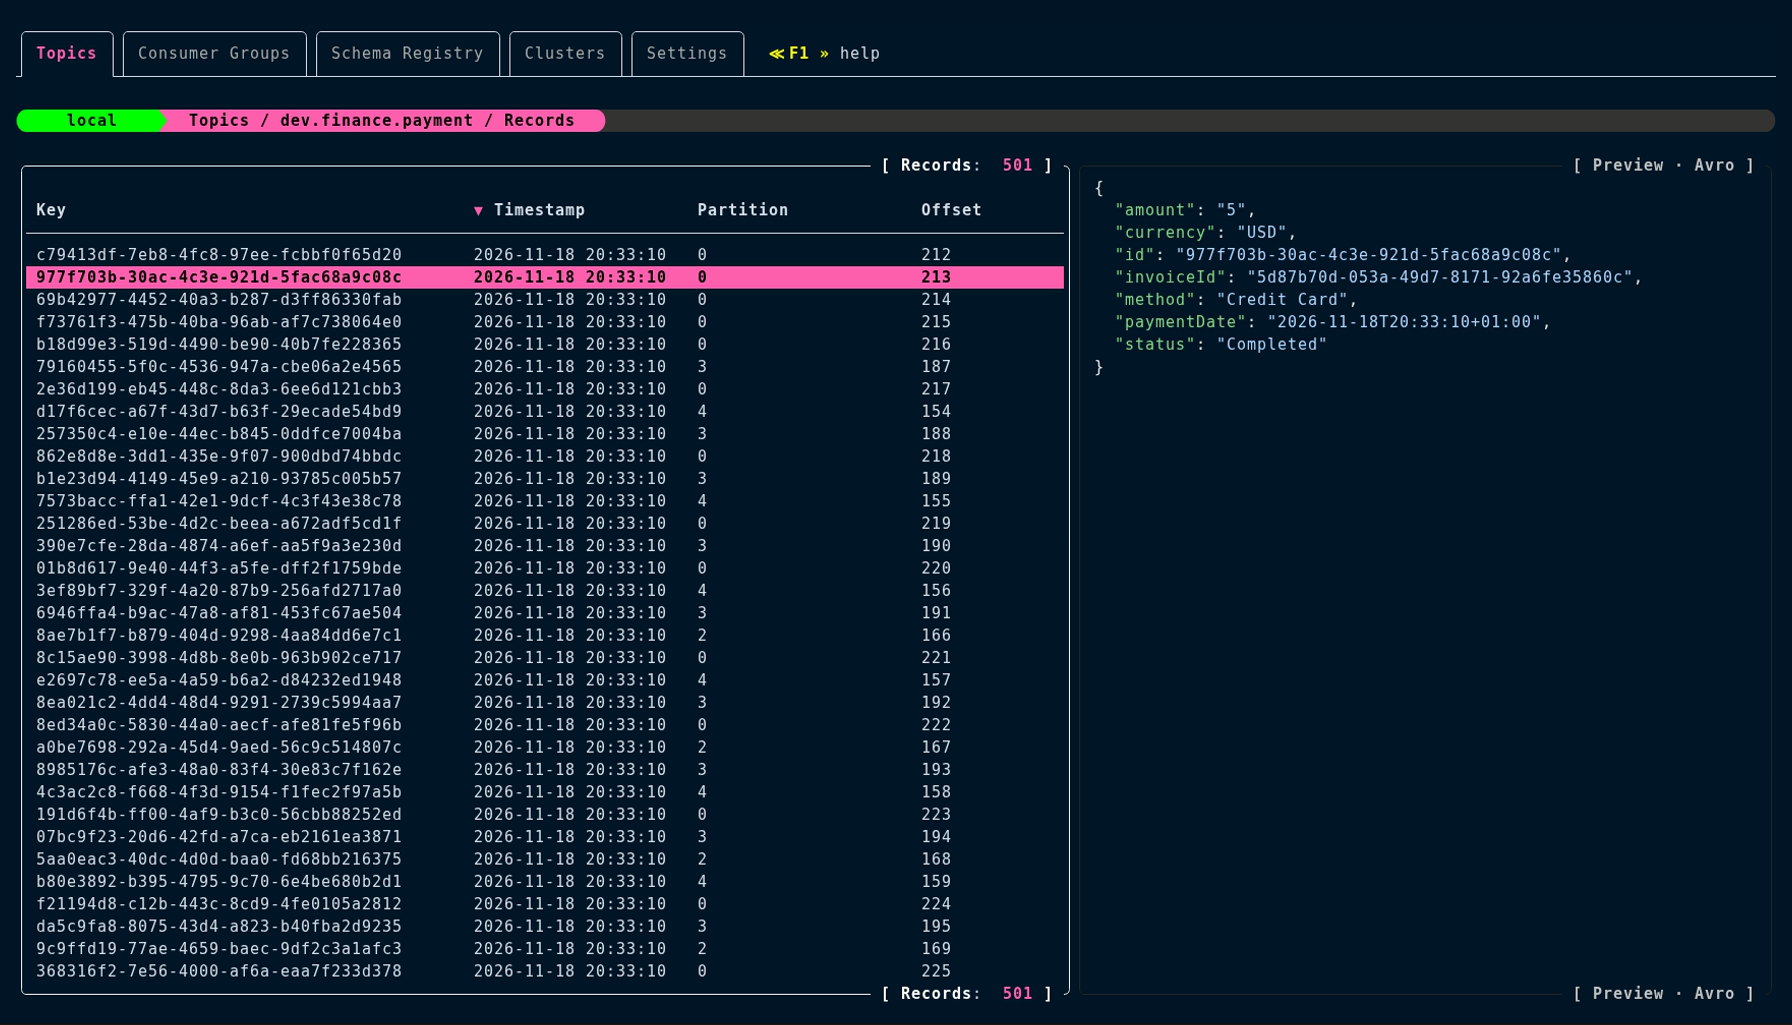
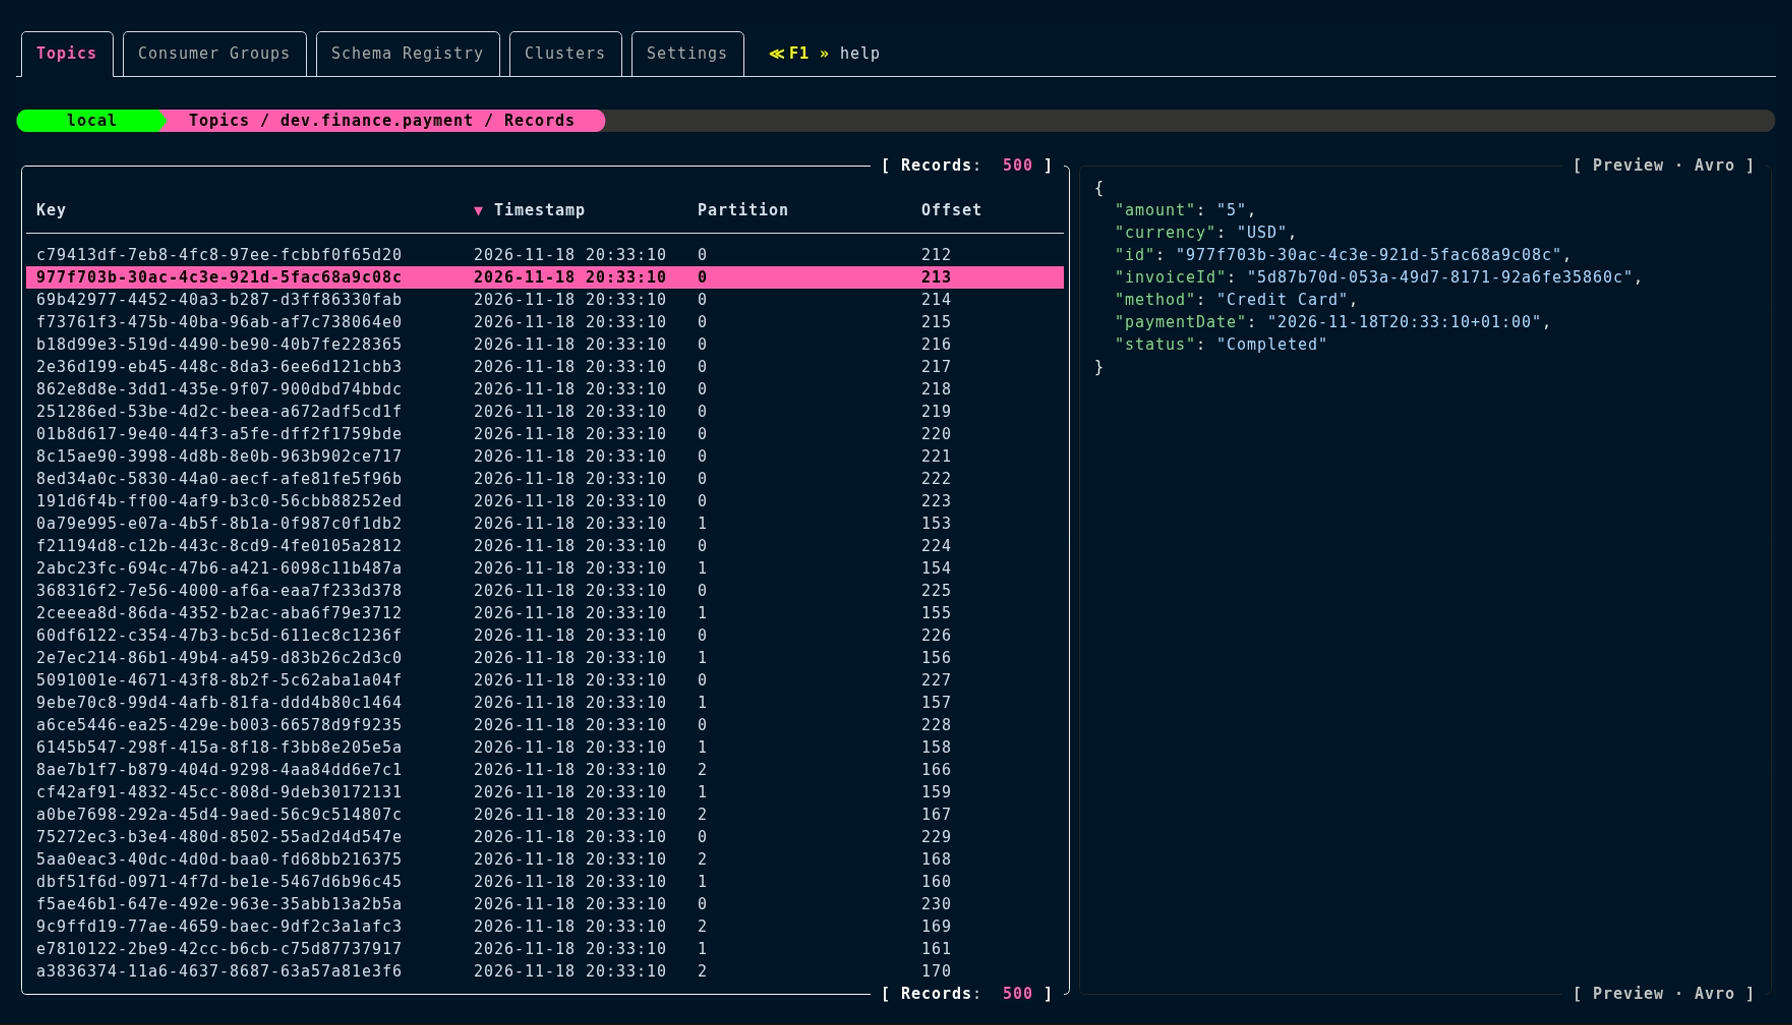
fix: read exactly the requested number of records
Most recent reading started one offset too early per partition, so it
read one record too many and missed the newest record of a partition.
Reading from the beginning had the same off-by-one when exactly one more
record was available. Partitions read concurrently could also each send
one record more after the limit was reached, e.g. 501 of 500 records.

An unset limit reads the default of 500 records instead of one.

diff --git a/kadmin/record_reader_test.go b/kadmin/record_reader_test.go
@@ -236,7 +236,10 @@ func TestReadRecords(t *testing.T) {
 
 		assertRecords:
 			{
-				assert.Equal(t, 53, slices.Max(receivedRecords))
+				// the 50 most recent records, including the newest one
+				assert.Len(t, receivedRecords, 50)
+				assert.Equal(t, 5, slices.Min(receivedRecords))
+				assert.Equal(t, 54, slices.Max(receivedRecords))
 			}
 
 			// clean up
@@ -956,6 +959,57 @@ type determineStartingOffsetTest struct {
 	offsets     offsets
 }
 
+func TestReadRecordsLimitAcrossPartitions(t *testing.T) {
+	topic := topicName()
+	msg := ka.CreateTopic(TopicCreationDetails{Name: topic, NumPartitions: 5, ReplicationFactor: 1}).(TopicCreationStartedMsg)
+	if _, ok := msg.AwaitCompletion().(TopicCreatedMsg); !ok {
+		t.Fatal("Unable to create topic")
+	}
+	defer ka.DeleteTopic(topic)
+
+	// 120 records per partition
+	for i := 0; i < 600; i++ {
+		partition := i % 5
+		psm := ka.PublishRecord(&ProducerRecord{
+			Topic:     topic,
+			Key:       strconv.Itoa(i),
+			Value:     []byte("{}"),
+			Partition: &partition,
+		})
+		select {
+		case err := <-psm.Err:
+			t.Fatal("Unable to publish", err)
+		case <-psm.Published:
+		}
+	}
+
+	for _, sp := range []StartPoint{MostRecent, Beginning} {
+		rsm := ka.ReadRecords(context.Background(), ReadDetails{
+			TopicName:       topic,
+			PartitionToRead: []int{0, 1, 2, 3, 4},
+			StartPoint:      sp,
+			Limit:           500,
+		}).(*ReadingStartedMsg)
+
+		count := 0
+		timeout := time.After(20 * time.Second)
+	read:
+		for {
+			select {
+			case _, ok := <-rsm.ConsumerRecord:
+				if !ok {
+					break read
+				}
+				count++
+			case <-timeout:
+				t.Fatal("timed out reading records")
+			}
+		}
+
+		assert.Equal(t, 500, count, "start point %d", sp)
+	}
+}
+
 func TestDetermineStartingOffset(t *testing.T) {
 	var tests = []determineStartingOffsetTest{
 		{
@@ -1043,8 +1097,80 @@ func TestDetermineStartingOffset(t *testing.T) {
 			},
 
 			want: want{
-				start: 240,
+				start: 241,
 				end:   290,
+			},
+		},
+		{
+			name: "most recent multiple partitions read the limit in total",
+			readDetails: ReadDetails{
+				TopicName:       "test-topic",
+				PartitionToRead: []int{0, 1, 2, 3, 4},
+				StartPoint:      MostRecent,
+				Limit:           500,
+			},
+			offsets: offsets{
+				start: 0,
+				end:   1000,
+			},
+
+			// 100 records per partition, 500 in total
+			want: want{
+				start: 900,
+				end:   999,
+			},
+		},
+		{
+			name: "an unset limit reads the default number of records",
+			readDetails: ReadDetails{
+				TopicName:       "test-topic",
+				PartitionToRead: []int{0},
+				StartPoint:      MostRecent,
+			},
+			offsets: offsets{
+				start: 0,
+				end:   1000,
+			},
+
+			want: want{
+				start: 1000 - DefaultLimit,
+				end:   999,
+			},
+		},
+		{
+			name: "beginning one more record available than the limit",
+			readDetails: ReadDetails{
+				TopicName:       "test-topic",
+				PartitionToRead: []int{0},
+				StartPoint:      Beginning,
+				Limit:           50,
+			},
+			offsets: offsets{
+				start: 1,
+				end:   52,
+			},
+
+			want: want{
+				start: 1,
+				end:   50,
+			},
+		},
+		{
+			name: "fewer records requested than partitions read at least one record each",
+			readDetails: ReadDetails{
+				TopicName:       "test-topic",
+				PartitionToRead: []int{0, 1, 2, 3},
+				StartPoint:      MostRecent,
+				Limit:           2,
+			},
+			offsets: offsets{
+				start: 0,
+				end:   10,
+			},
+
+			want: want{
+				start: 9,
+				end:   9,
 			},
 		},
 		{

diff --git a/kadmin/record_reader.go b/kadmin/record_reader.go
@@ -245,6 +245,17 @@ type ReadDetails struct {
 	Filter          *Filter
 }
 
+// limit is the maximum number of records to read, DefaultLimit when no limit is set.
+func (rd ReadDetails) limit() int64 {
+	if rd.Limit <= 0 {
+		return DefaultLimit
+	}
+	return int64(rd.Limit)
+}
+
+// DefaultLimit is the number of records read by default.
+const DefaultLimit = 500
+
 type HeaderValue struct {
 	data []byte
 }
@@ -254,7 +265,7 @@ func NewDefaultReadDetails(topic *ListedTopic) ReadDetails {
 		TopicName:       topic.Name,
 		PartitionToRead: topic.Partitions(),
 		StartPoint:      MostRecent,
-		Limit:           500,
+		Limit:           DefaultLimit,
 		Filter:          &Filter{},
 	}
 }
@@ -570,12 +581,14 @@ func (ka *SaramaKafkaAdmin) doReadRecords(
 							protobuf:  protobuf,
 						}
 
-						if msgCount.Add(1) >= int64(rd.Limit) {
-							select {
-							case startedMsg.ConsumerRecord <- consumerRecord:
-							case <-ctx.Done():
+						// partitions are read concurrently, only the record reaching the limit is still sent
+						if count := msgCount.Add(1); count >= rd.limit() {
+							if count == rd.limit() {
+								select {
+								case startedMsg.ConsumerRecord <- consumerRecord:
+								case <-ctx.Done():
+								}
 							}
-							// Now that the last message is sent (or we're exiting), return.
 							return
 						}
 
@@ -658,7 +671,8 @@ func (ka *SaramaKafkaAdmin) determineReadingOffsets(
 
 	var startOffset int64
 	var endOffset int64
-	numberOfRecordsPerPart := int64(float64(int64(rd.Limit)) / float64(len(rd.PartitionToRead)))
+	// at least one record per partition, the total is capped by the limit while reading
+	numberOfRecordsPerPart := max(rd.limit()/int64(len(rd.PartitionToRead)), 1)
 	if rd.StartPoint == Beginning {
 		startOffset, endOffset = ka.determineOffsetsFromBeginning(
 			offsets,
@@ -684,7 +698,8 @@ func (ka *SaramaKafkaAdmin) determineMostRecentOffsets(
 	numberOfRecordsPerPart int64,
 	endOffset int64,
 ) (int64, int64) {
-	startOffset = offsets.newest() - numberOfRecordsPerPart
+	// both offsets are inclusive
+	startOffset = offsets.newest() - numberOfRecordsPerPart + 1
 	endOffset = offsets.newest()
 	if startOffset < 0 || startOffset < offsets.start {
 		startOffset = offsets.start
@@ -696,16 +711,9 @@ func (ka *SaramaKafkaAdmin) determineOffsetsFromBeginning(
 	offsets offsets,
 	numberOfRecordsPerPart int64,
 ) (int64, int64) {
-	var (
-		startOffset int64
-		endOffset   int64
-	)
-	startOffset = offsets.start
-	if (offsets.start + numberOfRecordsPerPart) < offsets.newest() {
-		endOffset = startOffset + numberOfRecordsPerPart - 1
-	} else {
-		endOffset = offsets.newest()
-	}
+	// both offsets are inclusive
+	startOffset := offsets.start
+	endOffset := min(startOffset+numberOfRecordsPerPart-1, offsets.newest())
 	return startOffset, endOffset
 }
 

diff --git a/ui/pages/topics_page/topics_page.go b/ui/pages/topics_page/topics_page.go
@@ -127,7 +127,7 @@ func (m *Model) Update(msg tea.Msg) tea.Cmd {
 					TopicName:       topic.Name,
 					PartitionToRead: topic.Partitions(),
 					StartPoint:      kadmin.Live,
-					Limit:           500,
+					Limit:           kadmin.DefaultLimit,
 				},
 			})
 		case "ctrl+f":
